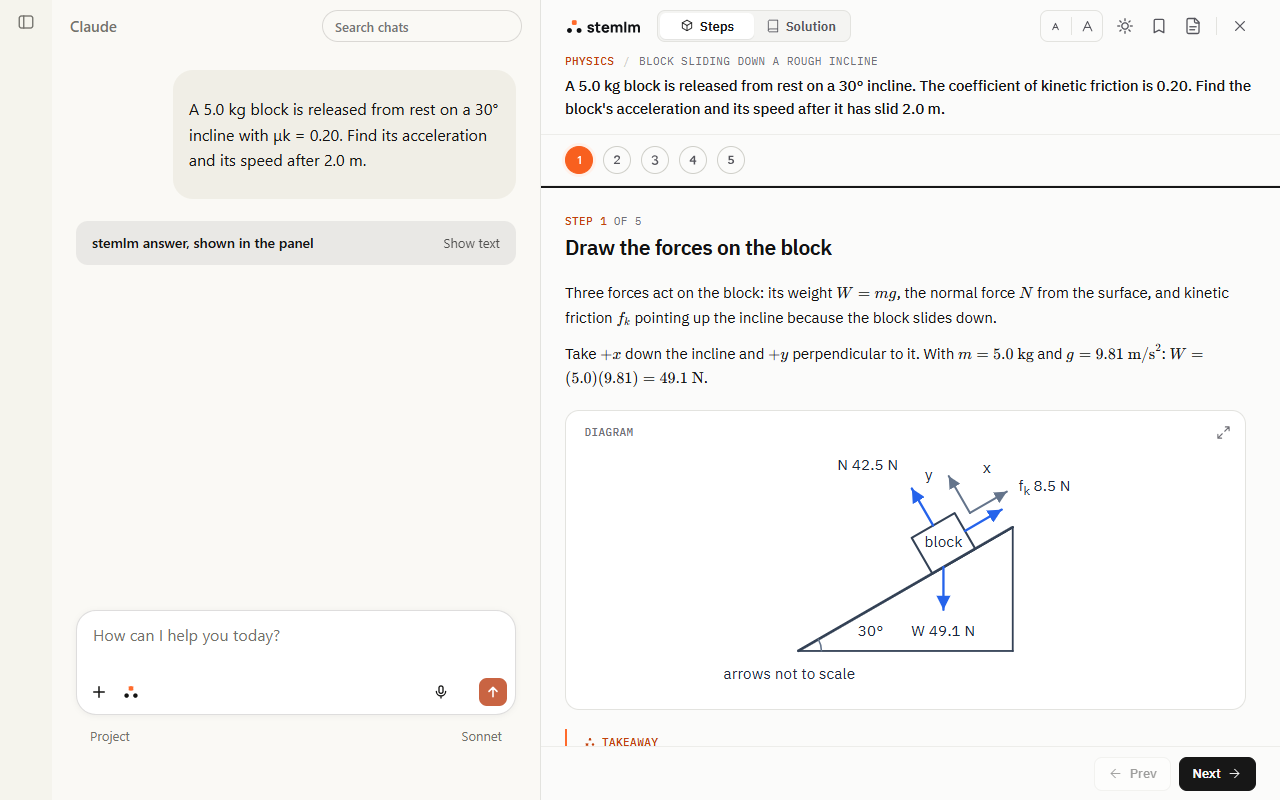
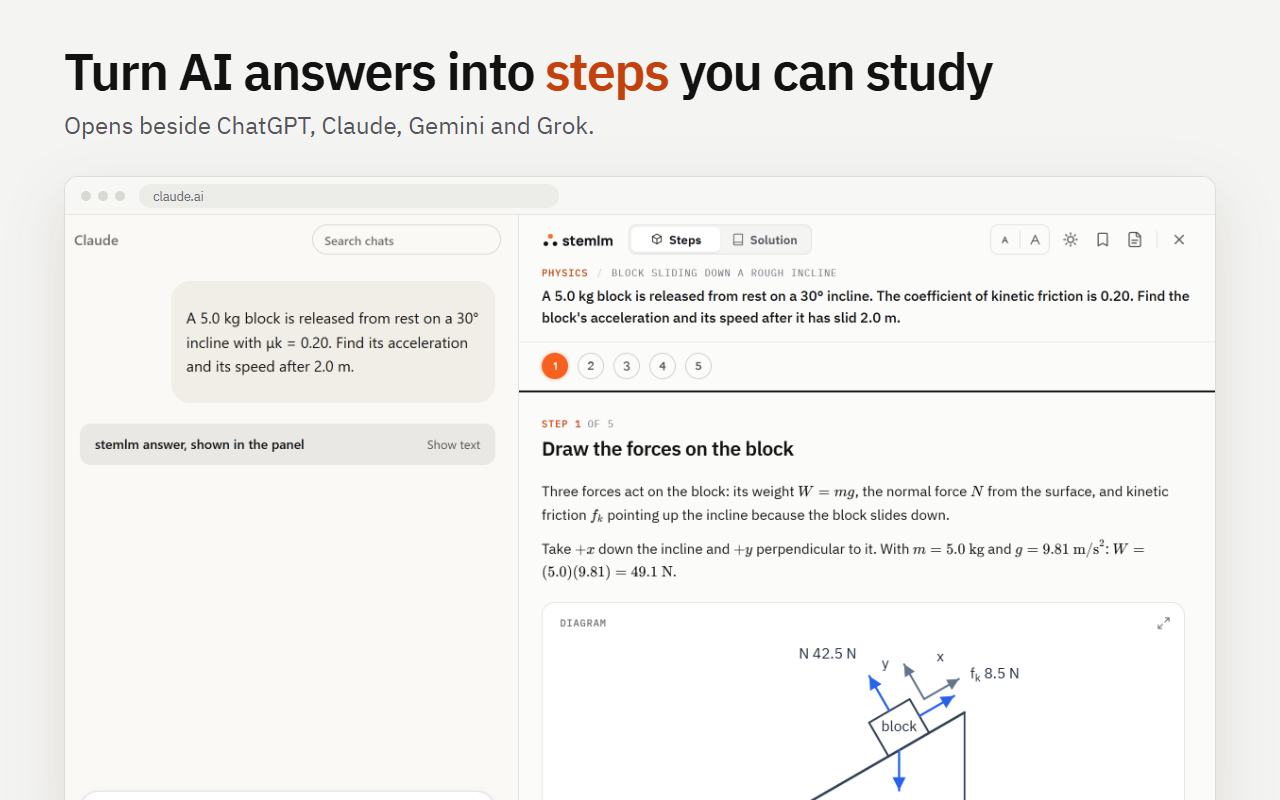
Store images: real captures in a headline layout, Codex art for the tiles
The five screenshots frame unedited 2x captures of the extension on the
chat layout doubles: one template (light canvas, 52px headline with one
word in brand orange, frames from the same top running off the bottom),
one feature each, with diagrams and formulas large enough to read in the
store's half-size carousel. The second shows where the stemlm button is
before the panel opens, so a student presses it before sending.

The small tile and the new marquee follow Google's tile guidance: brand
orange, the mark and name, almost no text, and a line drawing of an
incline made with an image model (store/art/promo-art.png). No product
UI is generated.

scripts/visual/store-shots.mjs makes all seven from a build.

diff --git a/store/listing.md b/store/listing.md
@@ -53,9 +53,12 @@ Works in desktop Chrome and Edge on chatgpt.com, claude.ai, gemini.google.com an
 | Field | File |
 | --- | --- |
 | Store icon (128x128) | `public/icon/128.png` |
-| Screenshots (1280x800, in this order) | `store/screenshot-1-steps.png`, `store/screenshot-2-circuit-dark.png`, `store/screenshot-3-quick-check.png`, `store/screenshot-4-solution.png`, `store/screenshot-5-graph-dark.png` |
+| Screenshots (1280x800, in this order) | `store/screenshot-1-steps.png`, `store/screenshot-2-start.png`, `store/screenshot-3-diagrams.png`, `store/screenshot-4-check.png`, `store/screenshot-5-solution.png` |
 | Small promo tile (440x280) | `store/promo-tile-440x280.png` |
-| Marquee promo tile, promo video | Leave empty |
+| Marquee promo tile (1400x560) | `store/marquee-1400x560.png` |
+| Global promo video | Leave empty |
+
+The screenshots frame unedited captures of the extension. The tiles' line art (`store/art/promo-art.png`) was made with an image model and holds no product UI; Google allows that in promo tiles but requires screenshots to show the real extension.
 
 **Additional fields**
 
